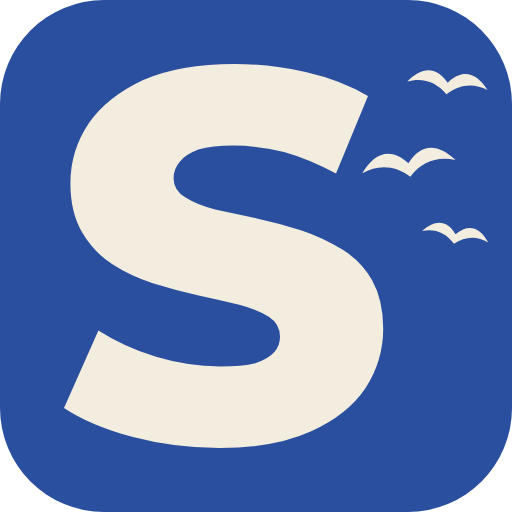
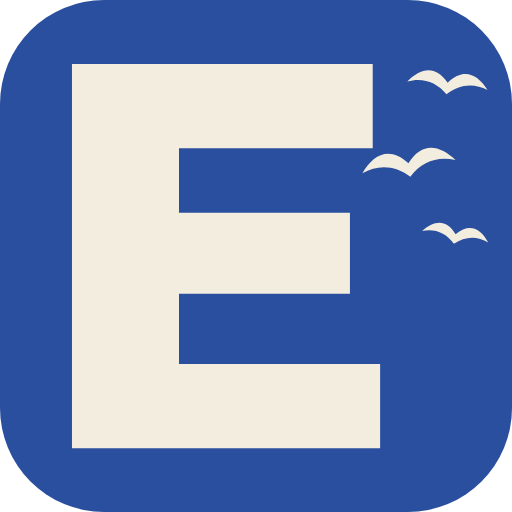
El ícono pasa a ser la E de Emigrados
La inicial se reconoce mejor en la pantalla del celular que la S final.
Se mantienen los pájaros que se van, que son la firma de la marca.

Claude-Session: https://claude.ai/code/session_01DGjcFzx9tuUw7FxzURoivB

diff --git a/README.md b/README.md
@@ -47,7 +47,7 @@ No hay respuestas correctas en las preguntas de migración: el juego invita a co
 ## Diseño
 
 - **Recortes de papel al estilo Matisse sobre un fondo azul cobalto.** Tarjetas en papel crema con tinta negra, coral y amarillo como acentos, y un papel de color para cada modo (durazno, verde claro y amarillo). Las figuras tienen el borde irregular de la tijera gracias a filtros SVG.
-- **Marca:** la palabra EMIGRADOS en Montserrat ExtraBold, con la **S hecha de pájaros**, algunos de los cuales se sueltan y se van volando. El ícono es la S sobre cobalto.
+- **Marca:** la palabra EMIGRADOS en Montserrat ExtraBold, con la **S hecha de pájaros**, algunos de los cuales se sueltan y se van volando. El ícono es la E de Emigrados sobre cobalto, con los pájaros que se van.
 - **Los pájaros como hilo:** una golondrina que vuela sola (Individual), una bandada en V (Grupal) y dos pájaros que llegan de lugares distintos y se encuentran (Online). De fondo, en todas las pantallas, una ruta punteada sale de una casa, cruza la pantalla con una bandada de golondrinas y llega a un barrio nuevo.
 - **Tarjeta de embarque:** banda cobalto con el logo, ruta de tu casa a la escala, la pregunta sobre el papel de color de su etapa y, en el talón, tu avatar, tu código de pasajero y el afiche del país.
 - **52 afiches de viaje ilustrados**, uno por país, con su lugar emblemático (`components/posters.jsx`).

diff --git a/docs/PROMPTS.md b/docs/PROMPTS.md
@@ -74,7 +74,7 @@ Exploramos con la IA varias direcciones a partir de cuadros de Matisse y de mi p
 | Avatares | Avatares de recorte sin rasgos en la cara |
 | Rediseño de la tarjeta de embarque, la maleta y el primer vuelo | Elegí entre dos propuestas de cada uno: tarjeta crema con banda cobalto, maleta azul noche y primer vuelo con un recorte por pantalla |
 | Imágenes para Instagram más simples | Solo el logo, la pregunta (el gancho) y el formato de billete. Sacamos la ruta, la etapa y el asiento porque a quien ve la historia no le interesan |
-| El ícono del pájaro en el corazón "recordaba a una iglesia" | Sacamos el corazón: la marca es la palabra, y el ícono es la S sobre cobalto |
+| El ícono del pájaro en el corazón "recordaba a una iglesia" | Sacamos el corazón: la marca es la palabra, y el ícono es la letra sobre cobalto (primero la S; después la E, la inicial del nombre) |
 | Rellenar el fondo del inicio | Una ruta punteada sale de una casa y cruza el fondo con una bandada de golondrinas hasta un barrio nuevo. Sacamos a Ícaro, la figura anterior, porque no se entendía |
 
 ### Después de probarlo en clase
